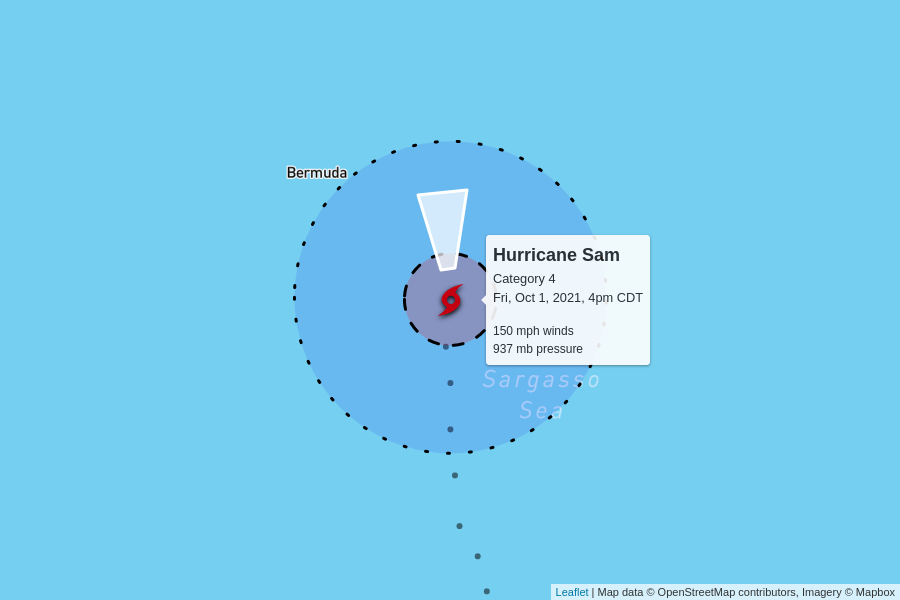
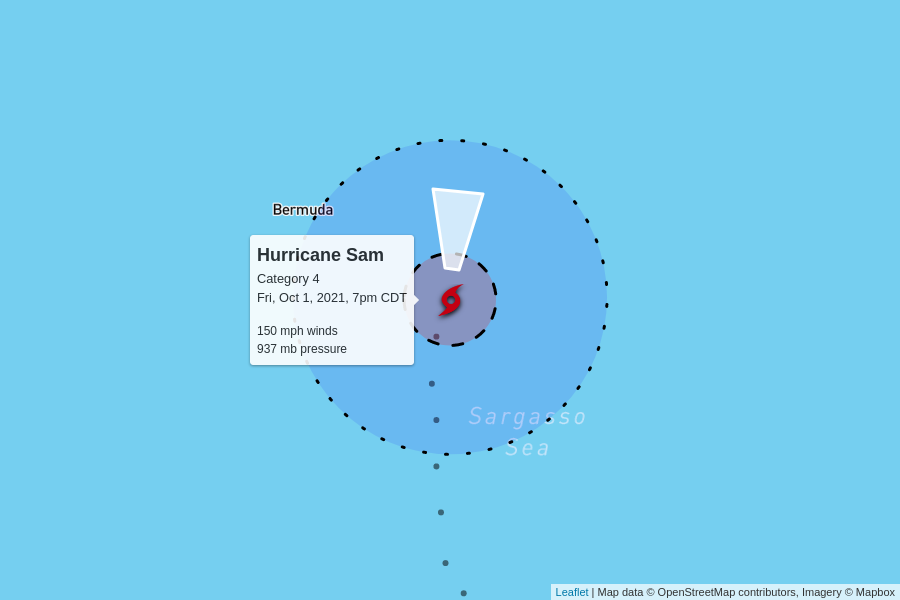
automatic update

diff --git a/docs/index.html b/docs/index.html
@@ -100,7 +100,7 @@
         <td colspan="6" class="storm category-4" >
           <h2>
             Hurricane Sam - Category 4
-            <p class="updated">last updated <span data-time>2021-10-01T21:00:00.000Z</span></p>
+            <p class="updated">last updated <span data-time>2021-10-02T00:00:00.000Z</span></p>
           </h2>
         </td>
       </tr>
@@ -120,7 +120,7 @@
         <td>
           20 mph to the north
           <br/>
-          <span style="display: inline-block; font-size: 1.5em; transform: rotate(355deg);">↑</span>
+          <span style="display: inline-block; font-size: 1.5em; transform: rotate(5deg);">↑</span>
         </td>
         <td><a href="https://raw.githubusercontent.com/mgwalker/atlantic-hurricanes/main/data/csv/AL182021.csv">AL182021.csv</a></td>
         <td><a href="https://www.nhc.noaa.gov/archive/2021/SAM.shtml?">NHC advisories</a></td>
